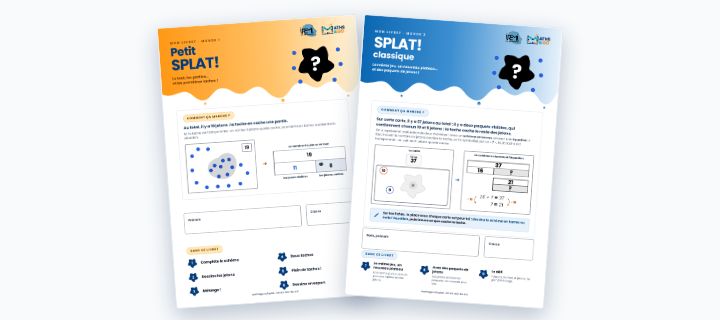
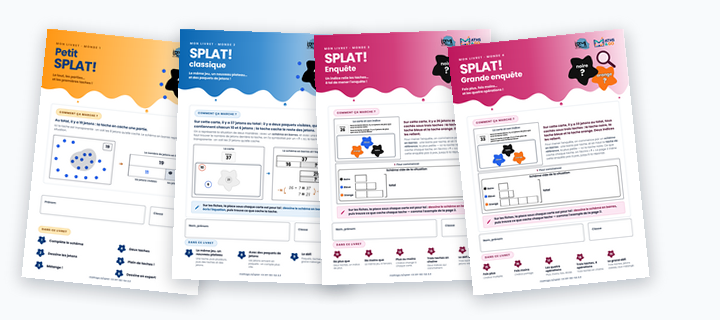
Livrets SPLAT! : la miniature du catalogue montre les quatre mondes, et les chiffres au centre des petits splats des cartes

diff --git a/outils/livrets_splat.html b/outils/livrets_splat.html
@@ -63,7 +63,9 @@ main{max-width:980px;margin:0 auto;padding:18px 14px 40px}
 .onglets a .num{position:relative;flex:0 0 auto;display:flex;align-items:center;justify-content:center;width:46px;height:46px}
 .onglets a .num svg{position:absolute;inset:0;width:100%;height:100%}
 .onglets a .num use{fill:var(--c-plein)}
-.onglets a .num b{position:relative;margin:-3px 0 0 3px;color:#fff;font-size:19px;font-weight:900}
+/* le chiffre au centre du splat : ni décalage, ni marge — mesuré au pixel, il tombe à ±0,5 px du
+   point le plus éloigné des bords de la tache (50 % en largeur, 47,5 % en hauteur) */
+.onglets a .num b{position:relative;line-height:1;margin:0;color:#fff;font-size:19px;font-weight:900}
 .onglets a .txt{display:flex;flex-direction:column;min-width:0;line-height:1.15}
 .onglets a .etiq{font-size:16px;font-weight:800;color:var(--ink);display:-webkit-box;-webkit-box-orient:vertical;-webkit-line-clamp:2;overflow:hidden}
 .onglets a .fiches{margin-top:4px;font-size:12.5px;font-weight:700;color:var(--muted)}

diff --git a/outils/index.html b/outils/index.html
@@ -31,7 +31,7 @@
   <link rel="stylesheet" href="../assets/css/catalogue-refonte.css?v=breadcrumb-parent-20260913-1">
   <link rel="stylesheet" href="../assets/css/short-games-view.css?v=tec-tec-ecran-1">
   <script defer src="../assets/js/mention-confidentialite.js"></script>
-  <script defer src="../assets/js/catalogue-refonte-data.js?v=splat-livrets-quatre-mondes-20260923"></script>
+  <script defer src="../assets/js/catalogue-refonte-data.js?v=splat-livrets-miniature-20260923"></script>
   <script defer src="../assets/js/mathsgo-icon-library.js?v=icone-jeux-courts-20260913-1"></script>
   <script defer src="../assets/js/daily-metronome.js?v=20260719-1"></script>
   <script defer src="../assets/js/mathgo-generative-icons.js?v=20260716-1"></script>

diff --git a/assets/js/catalogue-refonte-data.js b/assets/js/catalogue-refonte-data.js
@@ -790,7 +790,7 @@ window.MATHSGO_CATALOGUE = {
       "cardTitle": "Les livrets SPLAT!",
       "collections": ["splat"],
       "tags": ["splat", "livret", "schema-barres", "equation", "inconnue", "imprimer"],
-      "thumbnail": "assets/img/thumbnails/splat/livrets-splat.png?v=1",
+      "thumbnail": "assets/img/thumbnails/splat/livrets-splat.png?v=2",
       "cardDescription": "Tous les livrets de l’univers SPLAT! à plier, monde par monde : le monde 1 en trois niveaux, le monde 2 en deux, l’Enquête et la Grande enquête (mondes 3 et 4), et leurs corrigés."
     },
     "outils/tuiles_algebriques/generateur_exercices_calcul_litteral.html": {
